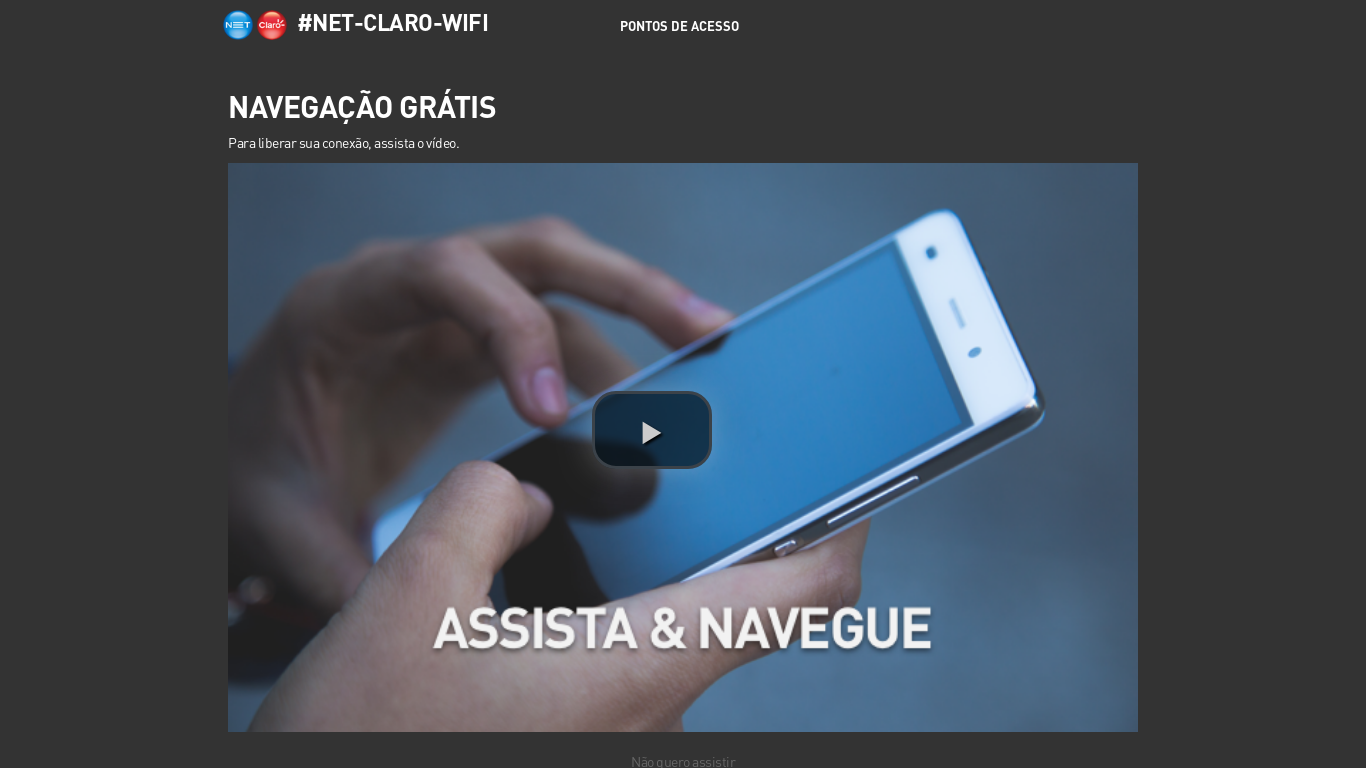
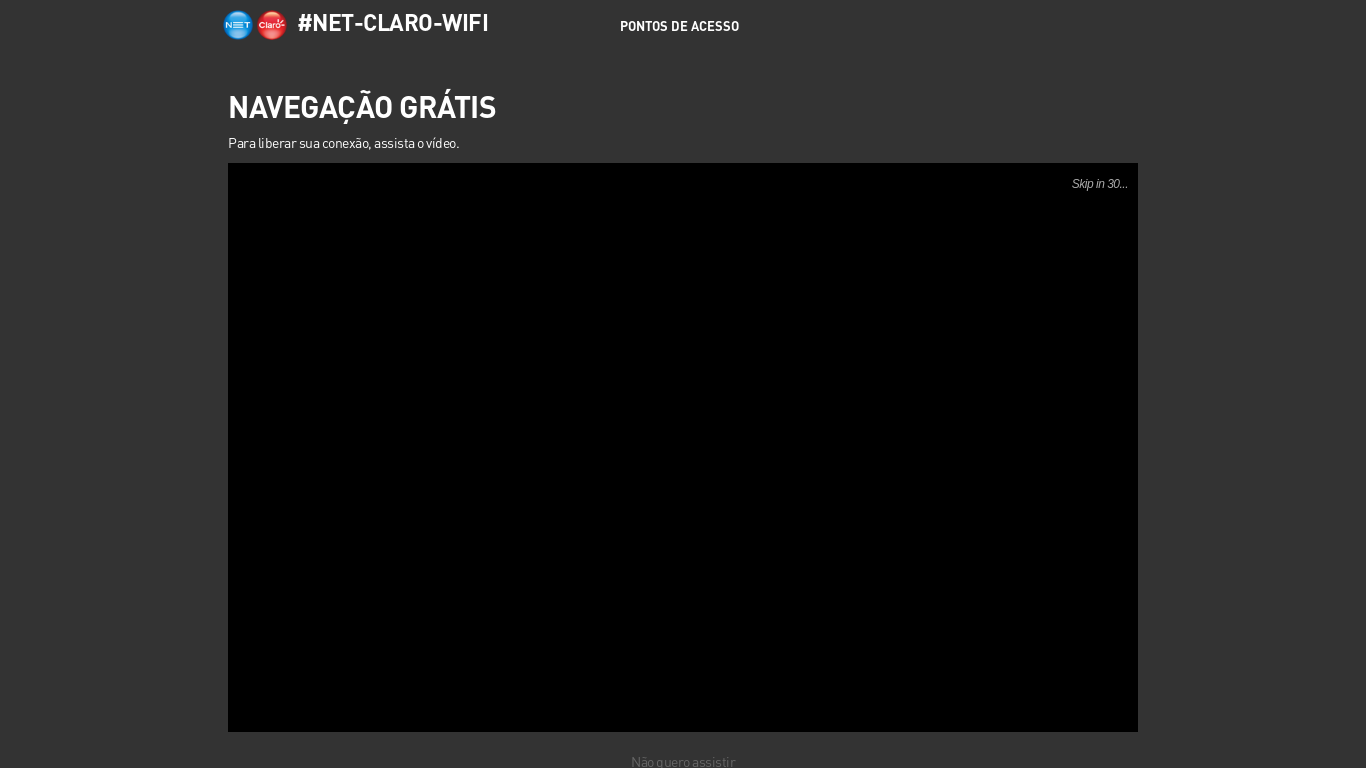
Improved autoconnect with master key! '

diff --git a/puppeteer/services/connect.js b/puppeteer/services/connect.js
@@ -6,8 +6,19 @@ async function connect(page, url){
     try{
         console.log('=> Connecting...')
         await page.goto( process.env.KEY || url, { waitUntil: 'domcontentloaded' })
+
+        console.log('Clicked on connect button...')
         await page.click('#formVideo > button')
-        await page.click('#linkNavigate')
+        
+        console.log('Browsed into sponsor page...')
+        await page.waitForSelector('#video > div.vjs-poster', { visible: true, timeout: 0 })
+        
+        setTimeout(async () => {
+            console.log('Started watching sponsor video...')
+            await page.click('#video > div.vjs-poster')
+        }, 5000)
+
+        await page.waitForSelector('body > div.container.container-success > div > div.row.col-md-12.col-sm-12 > div > div.saudacao > div', { visible: true, timeout: 0 })
         console.log('----> DONE!')
     }
     catch(error){
